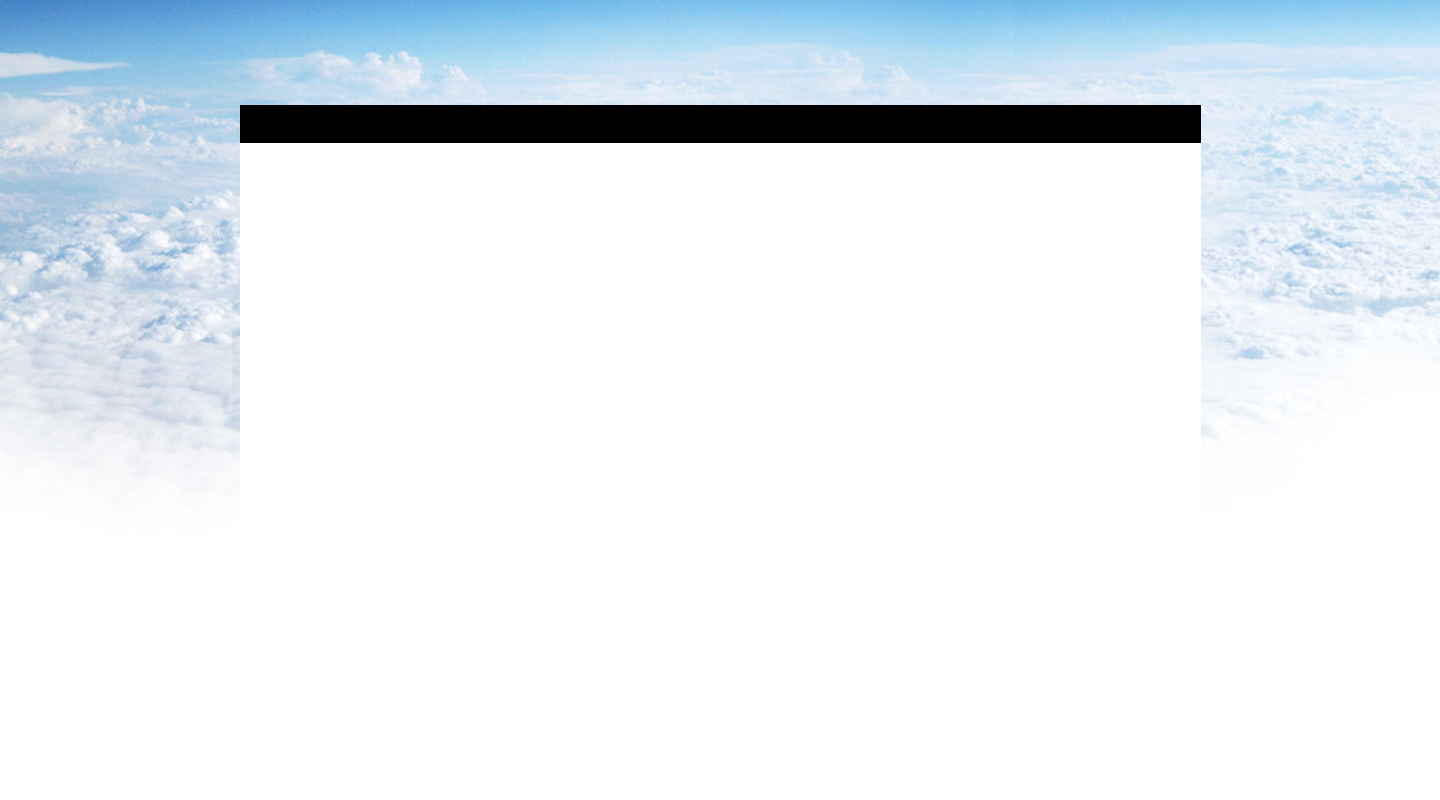
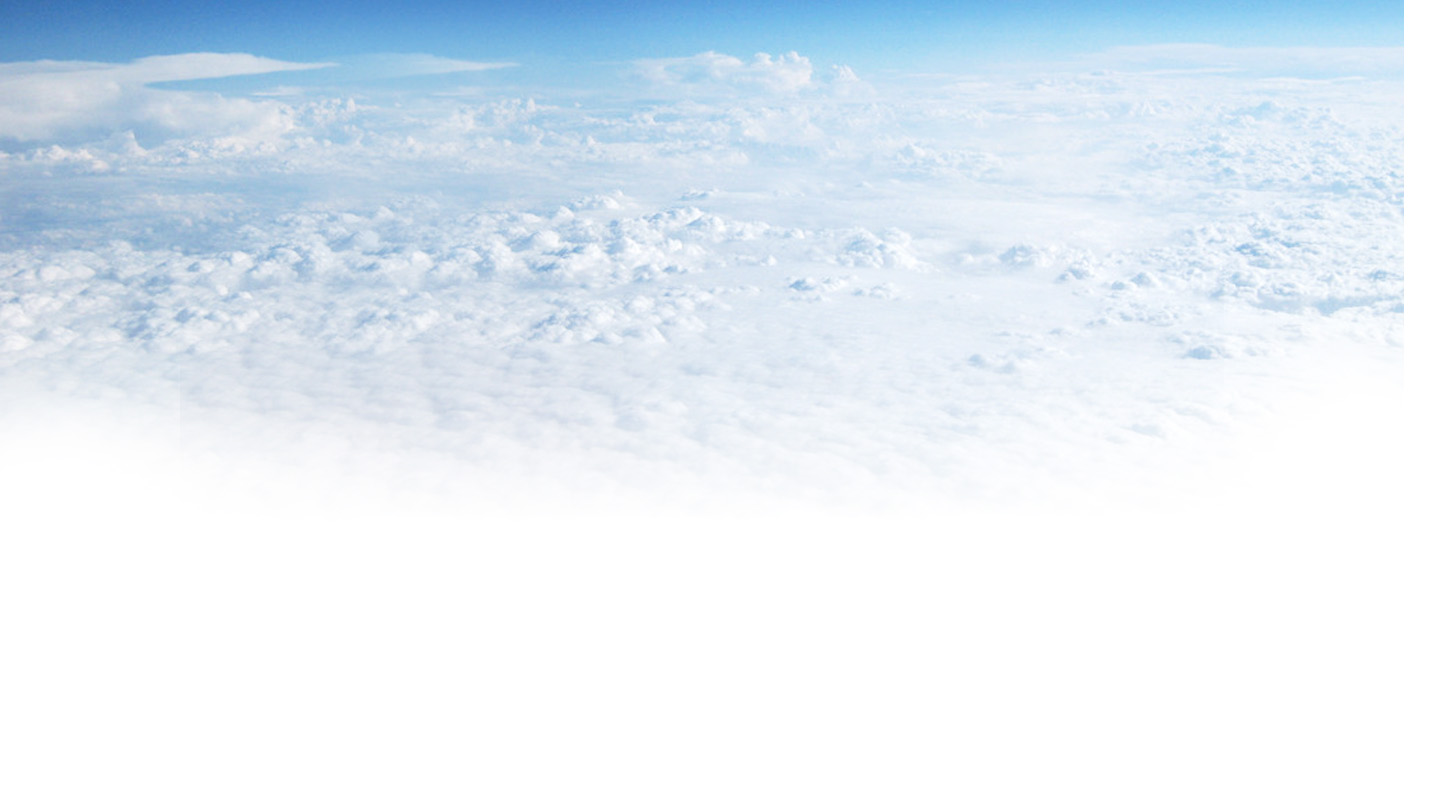
更新首页样式

Changed region(s): [[0.0, 0.0, 1.0, 0.5625], [0.0312, 0.5, 0.125, 0.5312]]

diff --git a/skin/style_2013/css/top.css b/skin/style_2013/css/top.css
@@ -76,7 +76,7 @@ body {
     color: #CC0000;
 }
 
-body{ background: url('/image/gamebg.jpg') no-repeat scroll center top;background-size: 1440px 800px;}
+body{ background: url('../image/gamebg.jpg') no-repeat scroll center top;background-size: 1440px 800px;}
 .h{ height:143px; width:100%; /*background:url(../image/header_bg.gif) repeat-x;*/ margin-bottom:10px;}
 .header{ width:960px; height:24px; margin:0 auto;}
 .header_left{ height:24px; padding-left:9px; float:left; width:200px;}
@@ -92,26 +92,26 @@ body{ background: url('/image/gamebg.jpg') no-repeat scroll center top;backgroun
 .tde{ width:400px; height:81px; float:right;}
 .tde_fxd{ height:41px; float:left; width:48px; padding-top:40px; color:#a7a7a7;}
 .tde_weibo{ height:49px; padding-right:9px; padding-top:32px; float:left;}
-.so{ width:153px; height:51px; float:left; overflow:hidden; padding:30px 0 0 16px;}
-.souk{ width:130px; height:29px;background:url(../image/so_bg.gif) no-repeat;}
+.so{ width:230px; height:51px; overflow:hidden; margin:30px 0 0 50px; float:left;}
+.souk{ width:100%; height:29px;/*background:url(../image/so_bg.gif) no-repeat;*/background:#444;}
 
-.search_box{ width:101px; height:29px; line-height:29px; color:#727272; border:none;  padding-left:7px; color:#727272; background:none; float:left;}
+.search_box{ width:201px; height:29px; line-height:29px; color:#727272; border:none;  padding-left:7px; color:#727272; background:none; float:left;}
 .soso{ width:13px; height:13px; background:url(../image/so.gif) no-repeat; float:left; margin-top:8px; border:none; cursor:pointer;}
 
 
 
 .denlu{ width:116px; height:50px; float:left; padding-top:30px;}
-.denlu a{ color:#FFFFFF; padding-left:10px; text-decoration:none; height:25px; line-height:30px;}
-.menu{ width:960px; height:38px; margin:0 auto;}
-.menu a{/*color: #E1E1E1;*/color: #FFF;display:inline;float: left;font-size: 14px;font-weight: bold;height: 38px;line-height: 38px;overflow: hidden;padding: 0 15px;}
-.menu a:hover{ background:#ffcc00; color:#000; text-decoration:none;}
+.denlu a{ color:#999; padding-left:10px; text-decoration:none; height:25px; line-height:30px;}
+.menu{ width:960px; height:38px; margin:0 auto;background:#000;}
+.menu a{color: #fff;display:inline;float: left;font-size: 14px;font-weight: bold;height: 38px;line-height: 38px;overflow: hidden;padding: 0 20px;}
+.menu a:hover{ background:#ff8800; color:#000; text-decoration:none;}
 
-.menu a.xuan{  background:#ffcc00; color:#000; text-decoration:none;}
+.menu a.xuan{ background:#ff6600; color:#000; text-decoration:none;}
 
 
 
 /*栏目头部*/
-.menu2_bg{ width:100%; height:38px; background:#111111;}
+.menu2_bg{ width:100%; height:38px; /*background:#111111;*/}
 .menu2{ width:960px; height:70px; margin:0 auto;}
 .menu2_logo{ height:50px; float:left; padding-top:20px;}
 .menu2_wz{ height:35px; padding-left:17px; padding-top:35px; float:left; color:#333}

diff --git a/skin/style_2013/css/index.css b/skin/style_2013/css/index.css
@@ -1,16 +1,16 @@
 @charset "utf-8";
 /* CSS Document */
-.banner{ height:256px; width:960px; margin:0 auto;overflow:hidden;background:#fff;}
+.banner{ height:256px; width:960px; margin:0 auto;overflow:hidden;background:#fff;padding-top:10px;}
 .ba_left{ width:380px; height:246px; float:right;  padding-top:10px;}
-.ba_left h1{ height:38px; display:block; font-family: "微软雅黑","宋体",serif;font-size: 20px; font-family: "微软雅黑","宋体",serif;font-size: 20px; font-weight: normal;}
+.ba_left h1{ height:38px; display:block; font-family: "微软雅黑","宋体",serif;font-size: 20px; font-weight: normal;}
 .xbt{ width:380px; padding-bottom:8px;}
-.ba_left h1 a{ color:#333}
+.ba_left h1 a{ color:#ff7700;}
 .ba_left h1 a:hover{ color:#c00;}
-.xbt li{ height:23px; width:190px; float:left;}
-.xbt li a{ color:#333}
+.xbt li{ height:27px; width:360px; float:left;}
+.xbt li a{ color:#333;font-size:14px;}
 .xbt li a:hover{ color:#c00;}
 .content{ width:960px; margin:0 auto 10px auto;}
-.ba_right{ height:256px; width:559px; float:left;}
+.ba_right{ height:256px; width:559px; float:left;margin-left:5px;}
 
 .flash {
   height: 224px;
@@ -28,6 +28,8 @@
 .cn_left li{ height:29px; display:block; font-size:14px; background:url(../image/ufo_46.gif) no-repeat 2px 3px; padding-left:12px;}
 .cn_left li a{ color:#333;}
 .cn_left li a:hover{ color:#c00;}
+.cn_left_tit {margin-bottom:15px;}
+.cn_left_tit a{ float:right;}
 .cn_right{ width:243px; float:right; height:683px; padding-right:13px;}
 .cn_rtop{ border-top:2px solid #e5e5e5; overflow:hidden; display:block; height:8px;}
 .cn_rtit{ width:243px; height:34px;}
